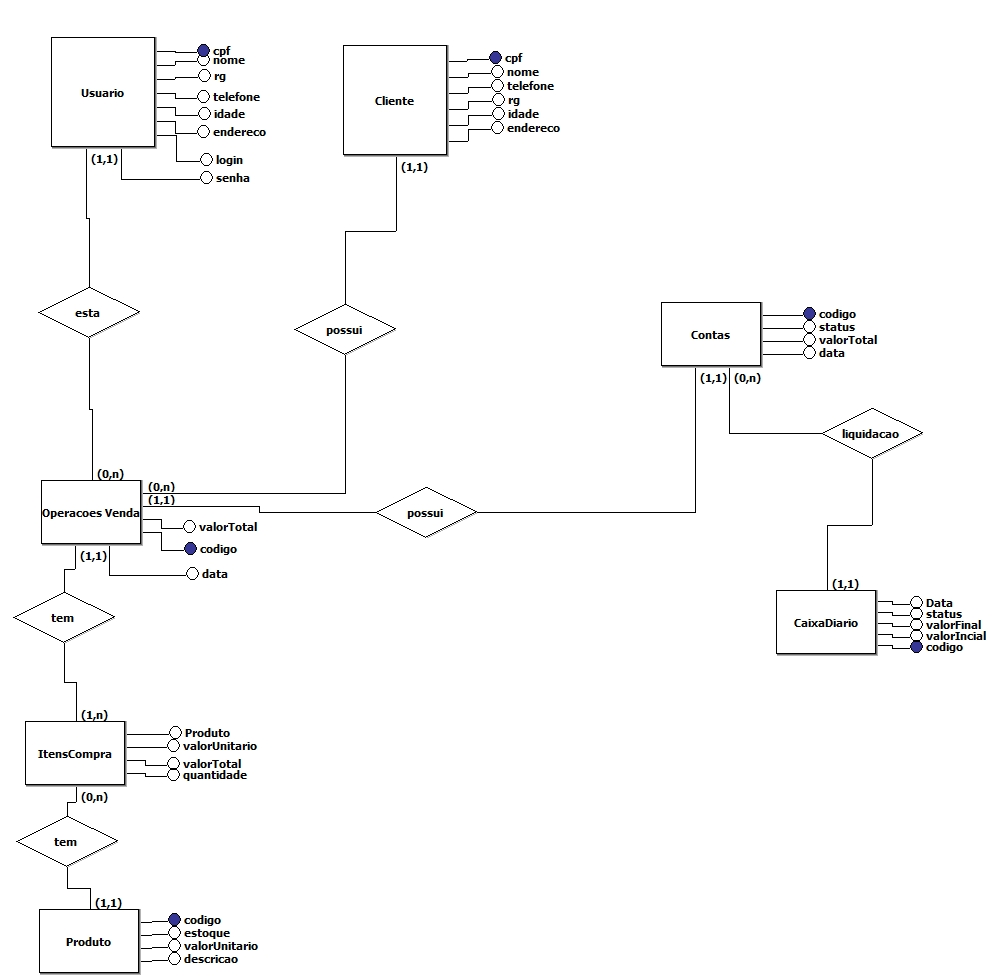
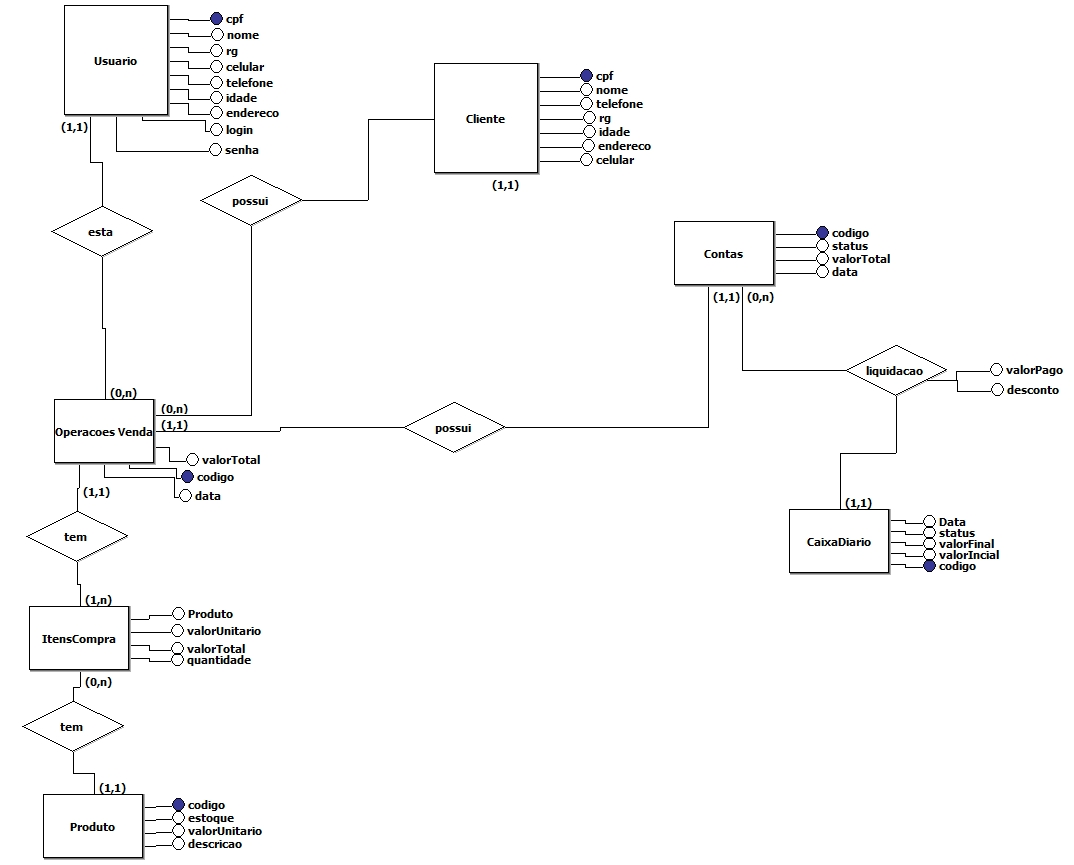
Modelo Conceitual BD mais algumas alterações na tela de vendas

diff --git a/src/br/com/ajconfeccoes/sistemaGerenciadorVendas/apresentacao/TelaConsultaProduto.java b/src/br/com/ajconfeccoes/sistemaGerenciadorVendas/apresentacao/TelaConsultaProduto.java
@@ -119,7 +119,6 @@ public class TelaConsultaProduto extends Tela {
 
         btnAtualizar.setBackground(new java.awt.Color(250, 253, 254));
         btnAtualizar.setIcon(new javax.swing.ImageIcon(getClass().getResource("/br/com/ajconfeccoes/sistemaGerenciadorVendas/apresentacao/imagens/arrow_refresh.png"))); // NOI18N
-        btnAtualizar.setOpaque(true);
         btnAtualizar.addActionListener(new java.awt.event.ActionListener() {
             public void actionPerformed(java.awt.event.ActionEvent evt) {
                 btnAtualizarActionPerformed(evt);
